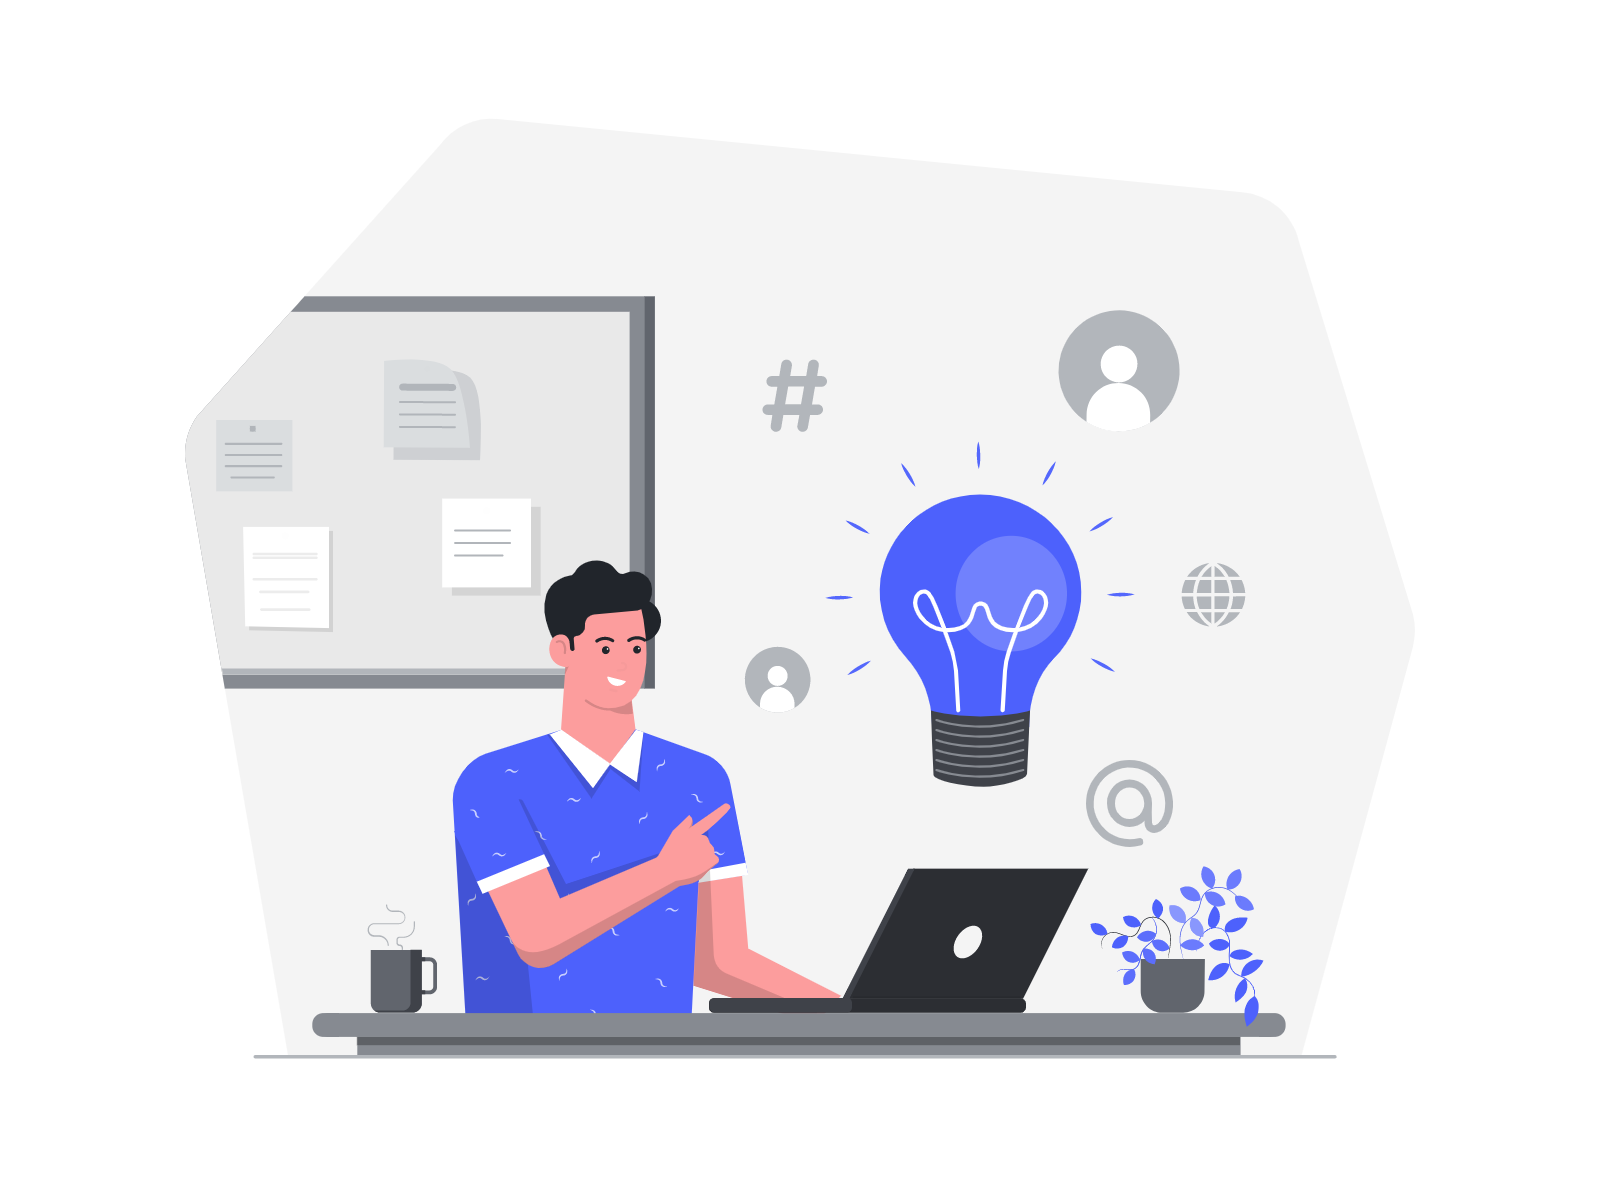
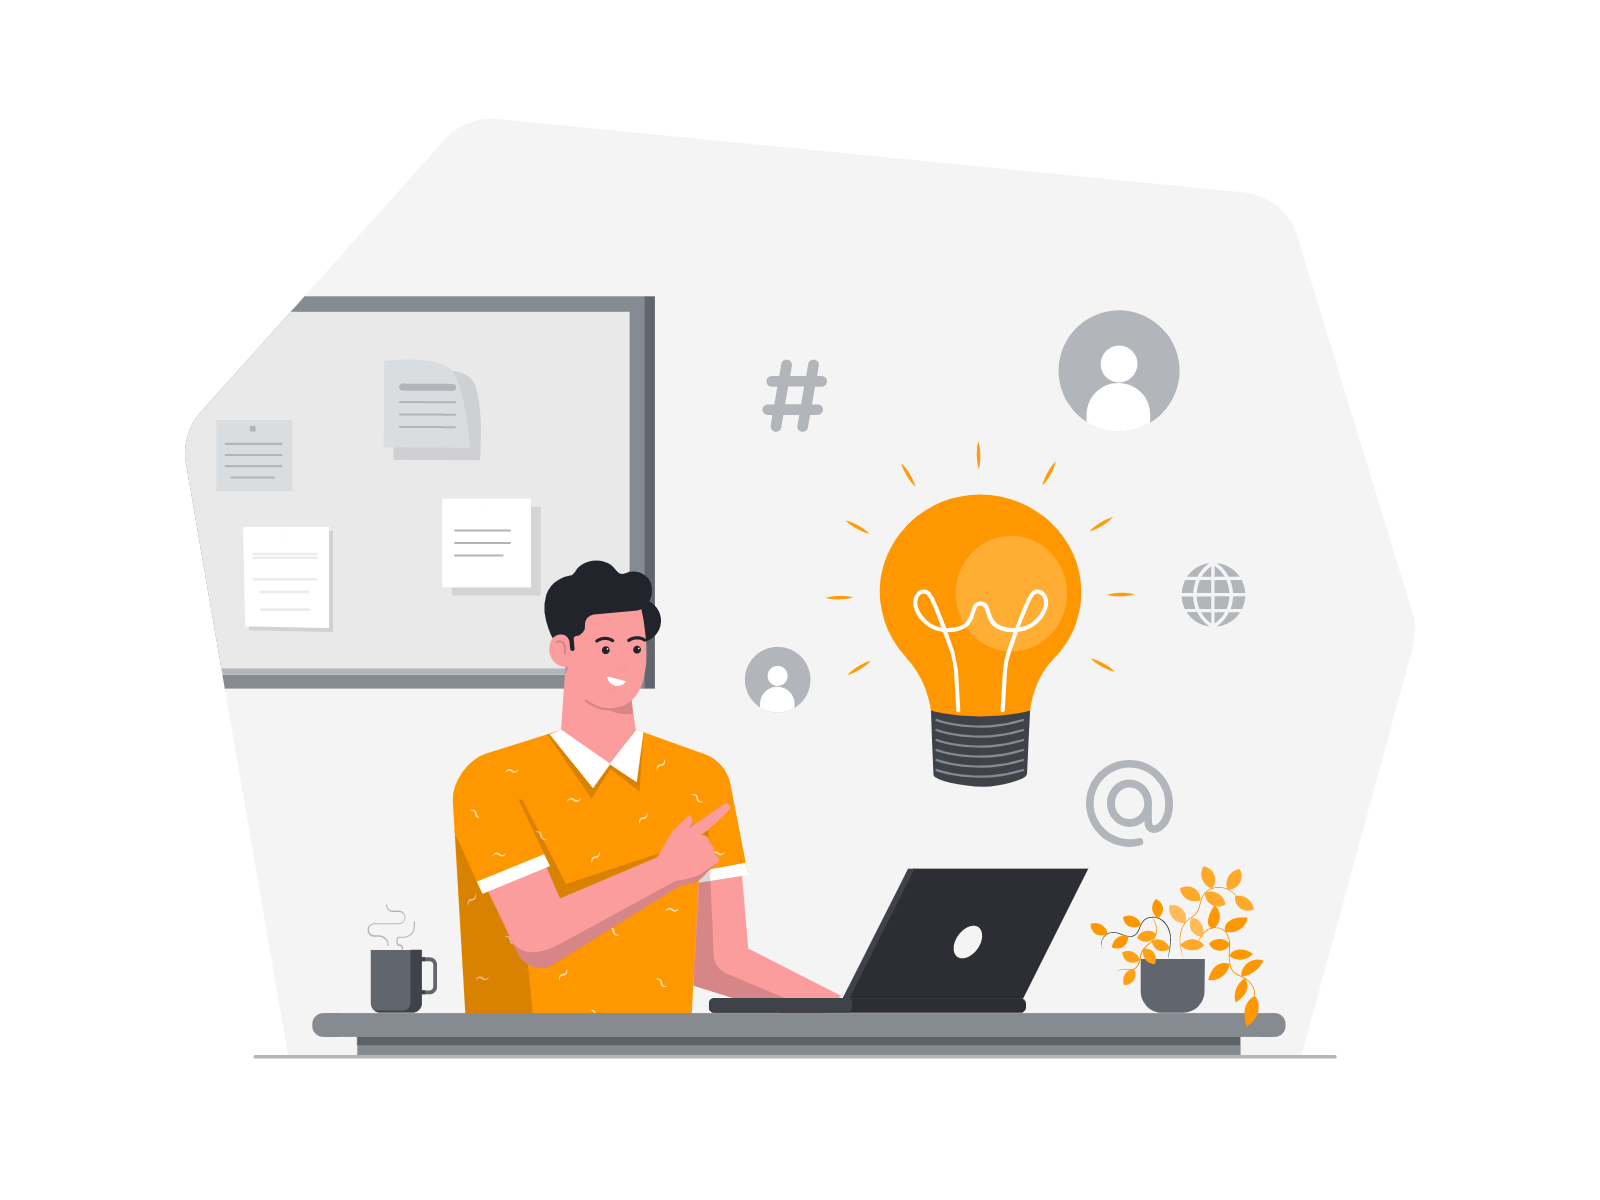
Style using theme colorsgit push

Changed region(s): [[0.2812, 0.6167, 0.4688, 0.8633], [0.5312, 0.4008, 0.6875, 0.6167], [0.6875, 0.7092, 0.7812, 0.8325]]

diff --git a/web/src/app/modules/anonymous/site/authentication/login/login.component.html b/web/src/app/modules/anonymous/site/authentication/login/login.component.html
@@ -1,7 +1,6 @@
 <app-authentication-wrapper>
   <app-authentication-wrapper-side class="cover">
     <img src='assets/images/login-cover.png' alt="Login image" class="image">
-    <app-authentication-redirect-button (click)="redirectToRegister()">Sign Up</app-authentication-redirect-button>
   </app-authentication-wrapper-side>
   <app-authentication-wrapper-side>
     <img src="https://download.blender.org/branding/blender_logo_socket.png" class='logo' alt='logo'>
@@ -24,8 +23,8 @@
       <button mat-raised-button color="primary" type="submit">Sign In</button>
     </app-authentication-form>
     <div class='actions'>
-      <div>Forgot Password? <a routerLink="/recover-password">Recover here</a></div>
-      <div>Don't have an account? <a routerLink="/register">Sign Up here</a></div>
+      <div>Forgot Password? <a routerLink="/recover-password" class="simple-link">Recover here</a></div>
+      <div>Don't have an account? <a routerLink="/register" class="simple-link">Sign Up here</a></div>
     </div>
   </app-authentication-wrapper-side>
 </app-authentication-wrapper>

diff --git a/web/src/assets/styles/_custom-styles.scss b/web/src/assets/styles/_custom-styles.scss
@@ -7,7 +7,7 @@
   $accent-palette: map.get($color-config, 'accent');
 
   $primary-color: mat.get-color-from-palette($primary-palette, 500);
-  $accent-color: mat.get-color-from-palette($accent-palette, 500);
+  $accent-color: mat.get-color-from-palette($accent-palette, 400);
 
   .background-primary {
     background-color: $primary-color;
@@ -15,6 +15,24 @@
 
   .background-accent {
     background-color: $accent-color;
+  }
+
+  .mat-raised-button, .mat-fab {
+    &.mat-primary {
+      color: #FFF;
+    }
+  }
+
+  a {
+    &.simple-link {
+      color: $primary-color;
+      text-decoration: none;
+      font-weight: bold;
+
+      &:hover {
+        text-decoration: underline;
+      }
+    }
   }
 }
 

diff --git a/web/src/app/modules/anonymous/site/authentication/register/register.component.html b/web/src/app/modules/anonymous/site/authentication/register/register.component.html
@@ -34,11 +34,10 @@
       <button mat-raised-button color="primary" type="submit">Sign Up</button>
     </app-authentication-form>
     <div class='actions'>
-      <div>Already have an account? <a routerLink="/login">Sign In here</a></div>
+      <div>Already have an account? <a routerLink="/login" class="simple-link">Sign In here</a></div>
     </div>
   </app-authentication-wrapper-side>
   <app-authentication-wrapper-side class="cover">
     <img src='assets/images/register-cover.png' alt="Login image" class="image">
-    <app-authentication-redirect-button (click)="redirectToLogin()">Sign In</app-authentication-redirect-button>
   </app-authentication-wrapper-side>
 </app-authentication-wrapper>

diff --git a/web/src/app/modules/anonymous/site/authentication/components/authentication-wrapper/authentication-wrapper.component.scss b/web/src/app/modules/anonymous/site/authentication/components/authentication-wrapper/authentication-wrapper.component.scss
@@ -7,10 +7,8 @@
   box-sizing: border-box;
   justify-content: center;
   padding: 7rem 10rem;
-  background-image: url('https://www.wallpapertip.com/wmimgs/200-2007939_perfect-white-gradient-4k-wallpaper.jpg');
-  background-repeat: no-repeat;
-  background-size: 100% 100%;
-
+  background: rgb(255, 255, 255);
+  background: linear-gradient(135deg, rgba(255, 255, 255, 1) 19%, rgba(255, 239, 214, 1) 50%, rgba(255, 226, 183, 1) 66%, rgba(255, 152, 0, 1) 89%, rgba(255, 152, 0, 1) 100%);
   @media screen and (max-width: $small-screen) {
     padding: 0;
   }

diff --git a/web/src/app/modules/authenticated/layout/authenticated-layout.component.html b/web/src/app/modules/authenticated/layout/authenticated-layout.component.html
@@ -9,13 +9,11 @@
   </mat-sidenav>
 
   <mat-sidenav-content class='sidenav-content'>
-    <mat-toolbar *ngIf='isHandset === true'>
+    <mat-toolbar class="toolbar" color="primary" *ngIf='isHandset === true'>
       <mat-icon class="menu" (click)='openSidenav()'>menu</mat-icon>
-      Bookmark Collector
     </mat-toolbar>
     <router-outlet></router-outlet>
   </mat-sidenav-content>
-
 </mat-sidenav-container>
 
 <ng-template #loading>

diff --git a/web/src/app/modules/authenticated/bookmarks/components/bookmark-view/bookmark-view.component.html b/web/src/app/modules/authenticated/bookmarks/components/bookmark-view/bookmark-view.component.html
@@ -1,5 +1,5 @@
 <div class="wrapper" (click)="openUrl()">
-  <div class="image">
+  <div>
     <img *ngIf="bookmark.image" [src]="bookmark.image" alt="bookmarkImage" class="image"/>
     <div *ngIf="!bookmark.image" class="image empty"></div>
   </div>

diff --git a/web/src/app/modules/authenticated/layout/authenticated-layout.component.scss b/web/src/app/modules/authenticated/layout/authenticated-layout.component.scss
@@ -3,7 +3,7 @@
   height: 100%;
 
   .sidenav {
-    width: 200px;
+    width: 250px;
     background-color: #f6f5f4;
   }
 
@@ -12,6 +12,7 @@
 
     .menu {
       cursor: pointer;
+      color: #FFF;
     }
   }
 }
